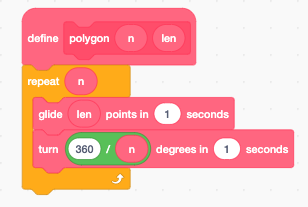
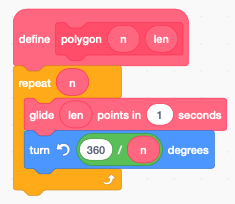
add pen recording

diff --git a/docs/4_pen/pen.rst b/docs/4_pen/pen.rst
@@ -34,6 +34,67 @@ This is the result, drawn on the backdrop with xy axes.
 
 .. image:: pen_move2.png
 
+RGB colors
+----------
+
+The **set pen color to ()** block has a drop-down menu to select the color via:
+
+- color
+- saturation
+- brightness
+
+.. image:: pen_color.png
+
+It is also possible to provide the color with an integer variable.
+Most computers represent color with the 3 components:
+
+- red
+- green
+- blue
+
+This is also called the **RGB color** system.
+The three components are expressed with a byte-sized value.
+The intensity of each color component can go from 0 to 255.
+
+Each color component occupies one byte and the 3 components can be combined into a 3-byte integer.
+When expressed as hexadecimal digit, the RGB color number has this format::
+
+    0xRRGGBB
+
+For example:
+
+- ``0xFF0000`` is red
+- ``0x00FF00`` is green
+- ``0x0000FF`` is blue
+
+We use 3 variables and express each base color at maximum intensity.
+
+.. image:: pen_rgb_var.png
+
+Now we can used these variables to draw three line segments in these base colors.
+- blue is 255
+- green is 255 shifted by 8 bits (multiplied by 256)
+- red is 255 shifted by 16 bits (multiplied by 256*256)
+
+.. image:: pen_rgb.png
+
+This is the result:
+
+.. image:: pen_rgb2.png
+
+We can also add two base colors to get a new color.
+
+- red and green = yellow
+- red and blue = magenta
+- blue and gren = cyan
+
+.. image:: pen_cym.png
+
+This is the result:
+
+.. image:: pen_cym2.png
+
+
 Move slowly
 -----------
 
@@ -41,9 +102,9 @@ The **Motion** category has a **glide to x, y** block.
 We can create a similar block for gliding a certain distance.
 
 In Scratch a loop executes 25 times each second.
-To last **t** seconds, it must repeat **tx25** times.
+To last **t** seconds, it must repeat ``t*25`` times.
 
-The distance increment of each iteration is **1/(tx25)** of the total distance.
+The distance increment of each iteration is ``1/(t*25)`` of the total distance.
 
 .. image:: pen_glide.png
 
@@ -51,16 +112,6 @@ To test the gliding move we write:
 
 .. image:: pen_glide2.png
 
-Turn slowly
------------
-
-Now let's write a block which rotates the sprite slowly.
-
-.. image:: pen_turn.png
-
-Let's test it.
-
-.. image:: pen_turn2.png
 
 Draw a square
 -------------
@@ -72,6 +123,12 @@ Now we combine the slow move and the slow turn block to draw a square.
 This is the result.
 
 .. image:: pen_square2.png
+
+If we do not set the rotation style, the pen will turn by 90 degrees at each corner.
+That does not give a natural animation style. It's better to not rotate the pen.
+Therefore at the start we set the rotation style to **don't rotate**.
+
+.. image:: pen_rotation.png
 
 Draw a polygon
 --------------
@@ -136,7 +193,7 @@ We define a fonction **set x, y** to add the point (x, y) to the **Points** list
 
 .. image:: pen_set.png
 
-The functiion **Triangle** sets the 4 points of the triangle shown above.
+The function **Triangle** sets the 4 points of the triangle shown above.
 
 .. image:: pen_triangle.png
 
@@ -303,3 +360,75 @@ And this is the result.
 .. image:: pen_grid5.png
 
 https://scratch.mit.edu/projects/398983654
+
+Record pen movement
+-------------------
+
+In this example we use a list to memorize the pen movenent.
+Clicking anywhere on the stage, starts drawing the line with the pen sprite, 
+and also recording of the x, y coordinates.
+
+.. image:: pen4_stage.png
+
+It uses the 4 variables:
+
+- mouse position **x, y**
+- mouse **down** state (true or false)
+- list index **i**
+
+.. image:: pen4_var.png
+
+At the start, we set the color to red and the thickness to 3.
+
+.. image:: pen4.png
+
+The function **add point** adds the current mouse position to the **Points** list.
+
+.. image:: pen4_add.png
+
+When the stage is clicked, the message **draw** is broadcast. This 
+
+- moves the pen to the mouse
+- records the position
+- puts the pen down
+
+until the mouse is up.
+
+.. image:: pen4_draw.png
+
+When the **Play** button is pressed the recorded points are redrawn.
+
+- reset index **i**  to 1
+- repeat until the end of the list
+- read the 3 variables **x, y, down** from the *Point* list
+- to to **x, y**
+- if **down** is true, then pen down (otherwise up)
+
+.. image:: pen4_play.png
+
+The **Button** sprite uses 2 emoticons.
+Pay attention to leave a space after the first icon, in order to make the frame larger.
+On the Android OS the icons are larger as on the iOS, and the icons are cut off on the right side.
+If you don't add the extras empty space after the emoticon, the icon will be cropped.
+
+.. image:: pen4_button.png
+
+Make the button hight 40 points. Using **ceiling** we can calculate the index **i** of the button.
+
+- 1 : delete
+- 2 : play
+
+.. image:: pen4_click.png
+
+To use keyboard shortcuts on the computer, we add this
+
+.. image:: pen4_key.png
+
+Try it out
+
+.. raw:: html
+
+    <iframe src="https://scratch.mit.edu/projects/404148380/embed"
+    allowtransparency="true" width="485" height="402" frameborder="0" scrolling="no" allowfullscreen></iframe>
+
+https://scratch.mit.edu/projects/404148380
